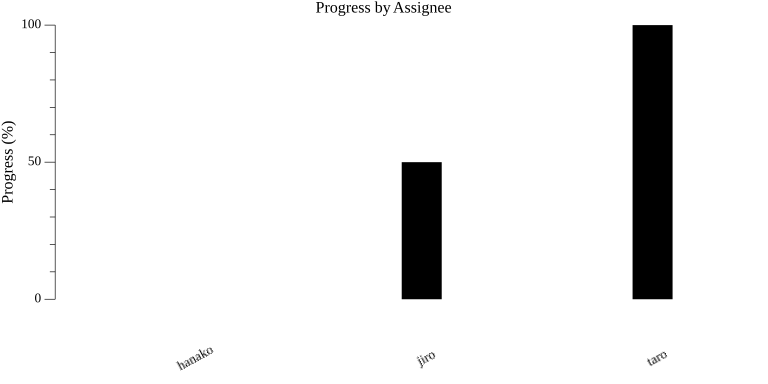
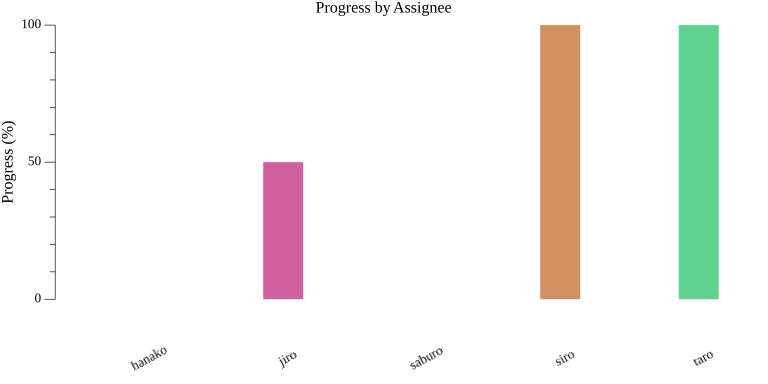
#19 円グラフで貢献度表示追加

diff --git a/todo.go b/todo.go
@@ -3,6 +3,7 @@ package main
 import (
 	"encoding/json"
 	"fmt"
+	"github.com/benoitmasson/plotters/piechart"
 	"github.com/olekukonko/tablewriter"
 	"gonum.org/v1/plot"
 	"gonum.org/v1/plot/plotter"
@@ -11,6 +12,10 @@ import (
 	"sort"
 	"strconv"
 	"time"
+	"image/color"
+	"log"
+	"hash/fnv"
+	"math"
 )
 
 type Task struct {
@@ -24,6 +29,50 @@ type Task struct {
 
 const dataFile = "todo.json"
 const timersettingFile = "timer_setting.json"
+
+// ColorFromName は人名を安定した色(RGBA)に変換します。
+// 同じ name を渡せば常に同じ色が返ります。
+func ColorFromName(name string) color.RGBA {
+	// 1) 64bit FNV ハッシュ
+	h := fnv.New64a()
+	h.Write([]byte(name))
+	hash := h.Sum64()
+ 
+	// 2) ハッシュ値 → 0–359 の Hue
+	hue := float64(hash % 360)
+	sat := 0.55 // 彩度
+	light := 0.60 // 輝度
+ 
+	return hslToRGBA(hue, sat, light)
+}
+ 
+// --- 内部関数: HSL → RGBA -----------------------------------------
+func hslToRGBA(h, s, l float64) color.RGBA {
+	c := (1 - math.Abs(2*l-1)) * s
+	x := c * (1 - math.Abs(math.Mod(h/60, 2)-1))
+	m := l - c/2
+	var r, g, b float64
+	switch {
+	case 0 <= h && h < 60:
+		r, g, b = c, x, 0
+	case 60 <= h && h < 120:
+		r, g, b = x, c, 0
+	case 120 <= h && h < 180:
+		r, g, b = 0, c, x
+	case 180 <= h && h < 240:
+		r, g, b = 0, x, c
+	case 240 <= h && h < 300:
+		r, g, b = x, 0, c
+	default: // 300‑360
+		r, g, b = c, 0, x
+	}
+	return color.RGBA{
+		R: uint8((r + m) * 255),
+		G: uint8((g + m) * 255),
+		B: uint8((b + m) * 255),
+		A: 255,
+	}
+}
 
 func loadTasks() ([]Task, error) {
 	file, err := os.Open(dataFile)
@@ -312,37 +361,35 @@ func ShowProgress() {
     }
 
     // グラフ用データ作成
-    values := make(plotter.Values, len(names))
-    for i, name := range names {
-        p := progressMap[name]
-        var rate float64
-        if p.totalWeight > 0 {
-            rate = float64(p.doneWeight) / float64(p.totalWeight) * 100
-        }
-        values[i] = rate
-    }
-
-    // グラフ生成
     p := plot.New()
     p.Title.Text = "Progress by Assignee"
     p.Y.Label.Text = "Progress (%)"
-
-    // 横軸に作業者名を表示
     p.NominalX(names...)
 
-    bar, err := plotter.NewBarChart(values, vg.Points(30))
-    if err != nil {
-        fmt.Println("グラフ生成に失敗しました:", err)
-        return
+    // 各作業者ごとに1本ずつBarChartを重ねて色分け
+    for i, name := range names {
+        prog := progressMap[name]
+        var rate float64
+        if prog.totalWeight > 0 {
+            rate = float64(prog.doneWeight) / float64(prog.totalWeight) * 100
+        }
+        vals := make(plotter.Values, len(names))
+        vals[i] = rate // 他は0
+        bar, err := plotter.NewBarChart(vals, vg.Points(30))
+        if err != nil {
+            fmt.Println("グラフ生成に失敗しました:", err)
+            return
+        }
+        bar.LineStyle.Width = vg.Length(0)
+        bar.Color = ColorFromName(name) // 名前から色を取得
+        p.Add(bar)
     }
-    bar.LineStyle.Width = vg.Length(0)
-    p.Add(bar)
     p.Y.Max = 100
 
     // 横軸ラベルの角度を調整
     p.X.Tick.Label.Rotation = 0.5 // 0.5ラジアン（約30度）傾ける
 
-    // 余白を設定（左右に0.2インチずつ余白を追加）
+    // 余白を設定
     p.X.Padding = vg.Points(40)
     p.X.Min = -0.5
     p.X.Max = float64(len(names)) - 0.5
@@ -353,4 +400,99 @@ func ShowProgress() {
         return
     }
     fmt.Println("進捗グラフ(progress.png)を出力しました。")
+}
+
+func ShowContribution() {
+	// ==== 1. タスク読み込み & 集計 ==========================================
+	tasks, err := loadTasks()
+	if err != nil {
+		log.Fatalf("loadTasks 失敗: %v", err)
+	}
+ 
+	contrib := make(map[string]float64)
+	var unfinishedWeight float64
+ 
+	for _, t := range tasks {
+		if t.Done {
+			name := t.Assignees
+			if name == "" {
+				name = "Unassigned"
+			}
+			contrib[name] += float64(t.TaskWeight)
+		} else {
+			unfinishedWeight += float64(t.TaskWeight)
+		}
+	}
+ 
+	// ==== 2. 円グラフ用データ作成 ==========================================
+	labels := make([]string, 0, len(contrib)+1)
+	values := make(plotter.Values, 0, len(contrib)+1)
+ 
+	for n, w := range contrib {
+		labels = append(labels, n)
+		values = append(values, w)
+	}
+	if unfinishedWeight > 0 {
+		labels = append(labels, "Unfinished")
+		values = append(values, unfinishedWeight)
+	}
+ 
+	// ==== 3. グラフベース生成 ==============================================
+	p := plot.New()
+	p.Title.Text = "Task Contribution"
+	p.HideAxes() // 円グラフなので軸は非表示
+ 
+	// ==== 4. スライスごとに PieChart を生成して色分け =======================
+	total := 0.0
+	for _, v := range values {
+		total += v
+	}
+ 
+	offset := 0.0
+ 
+	for i, v := range values {
+		// 4‑1) 1スライスだけをもつ PieChart を生成
+		pc, err := piechart.NewPieChart(plotter.Values{v})
+		if err != nil {
+			log.Fatalf("piechart 生成失敗: %v", err)
+		}
+ 
+		// 4‑2) 色と開始位置・合計値を設定
+		pc.Color = ColorFromName(labels[i])
+		pc.Offset.Value = offset
+		pc.Total = total
+ 
+		// 4‑3) ラベル表示設定
+		pc.Labels.Show = true
+		pc.Labels.Nominal = []string{labels[i]}
+		pc.Labels.Values.Show = true
+		pc.Labels.Values.Percentage = true // 割合表示
+ 
+		// 4‑4) 追加
+		p.Add(pc)
+		offset += v
+	}
+ 
+	// ==== 5. 保存 ==========================================================
+	if err := p.Save(6*vg.Inch, 6*vg.Inch, "contribution.png"); err != nil {
+		log.Fatalf("画像保存失敗: %v", err)
+	}
+	fmt.Println("貢献度円グラフを出力しました → contribution.png")
+}
+ 
+// defaultColors は必要数だけ色を返す簡易パレット
+func defaultColors(n int) []color.Color {
+	base := []color.Color{
+		color.RGBA{255, 99, 132, 255},  // 赤
+		color.RGBA{54, 162, 235, 255},  // 青
+		color.RGBA{255, 206, 86, 255},  // 黄
+		color.RGBA{75, 192, 192, 255},  // 緑
+		color.RGBA{153, 102, 255, 255}, // 紫
+		color.RGBA{255, 159, 64, 255},  // オレンジ
+	}
+	out := make([]color.Color, n)
+	for i := 0; i < n; i++ {
+		out[i] = base[i%len(base)]
+	}
+	return out
 }

diff --git a/main.go b/main.go
@@ -56,6 +56,8 @@ func main() {
 		TimerSetting(planningTime, developmentTime, reviewTime)
 	case "progress":
 		ShowProgress()
+	case "contribution":
+		ShowContribution()
 	default:
 		fmt.Println("Unknown command:", cmd)
 	}
